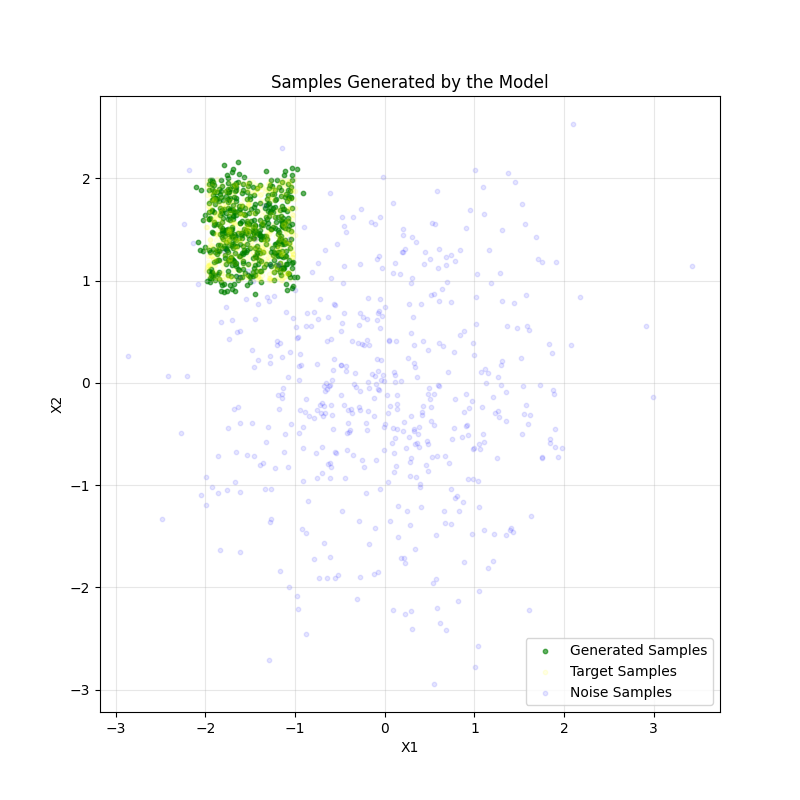
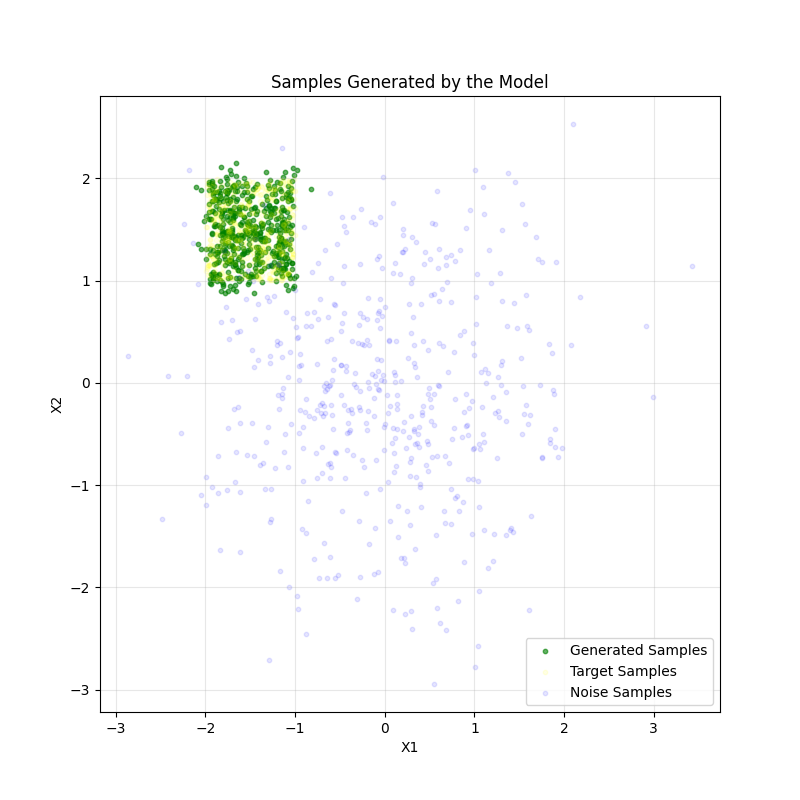
Remove clipping where not needed

Changed region(s): [[0.25, 0.1875, 0.4062, 0.375]]

diff --git a/src/data.py b/src/data.py
@@ -77,17 +77,19 @@ def create_database(x_gen, y_gen, n_samples, key, technique):
         t = random.uniform(key_t, shape=(n_samples, 1), minval=0.001, maxval=1)
 
         # Variance-preserving noise schedule so that large-t samples approach N(0, I)
-        alpha_bar = jnp.clip((1.0 - t) ** 2, a_min=1e-4, a_max=1.0)
-        sigma_t = jnp.sqrt(1.0 - alpha_bar)
+        # alpha_bar = jnp.clip((1.0 - t) ** 2, a_min=1e-4, a_max=1.0)
+        alpha_t = (1.0 - t) ** 2
+        sigma_t = jnp.sqrt(1.0 - alpha_t)
 
         epsilon = x_gen(n_samples, key_eps)
 
-        clean_component = jnp.sqrt(alpha_bar) * y_data
+        clean_component = jnp.sqrt(alpha_t) * y_data
         noisy_samples = clean_component + sigma_t * epsilon
 
         x_data = jnp.hstack([noisy_samples, t])
 
-        variance = jnp.clip(1.0 - alpha_bar, a_min=1e-4)
+        # variance = jnp.clip(1.0 - alpha_bar, a_min=1e-4)
+        variance = 1.0 - alpha_t
         true_score = (clean_component - noisy_samples) / variance
 
         return x_data, true_score

diff --git a/src/model.py b/src/model.py
@@ -54,7 +54,8 @@ class SDE(MLP):
         for step in range(num_steps):
             key, noise_key = random.split(key)
 
-            t_curr = jnp.clip(t_grid[step], 1e-3, 0.999)
+            # t_curr = jnp.clip(t_grid[step], 1e-3, 0.999)
+            t_curr = t_grid[step]
             t = jnp.full((n_samples, 1), t_curr)
 
             beta_t = 2.0 / jnp.clip(1.0 - t, a_min=1e-3)
